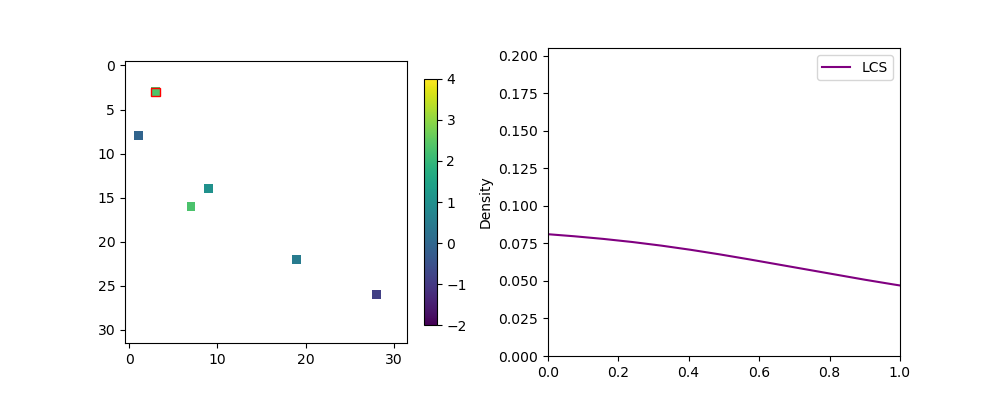
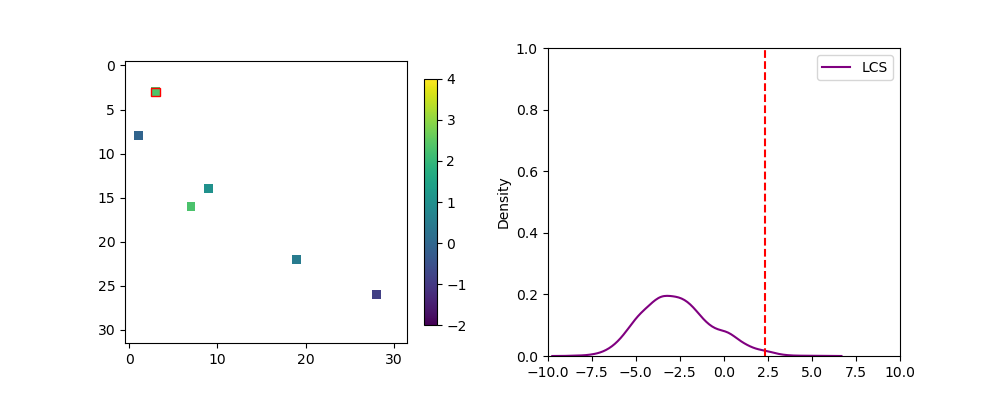
local conditional simulation marginals for model 2 br unparameterized

diff --git a/brown_resnick/sde_diffusion/masked/unparameterized_masked_score/evaluation/marginal_and_bivariate_densities/produce_conditional_mcmc_marginal_and_bivariate_densities.py b/brown_resnick/sde_diffusion/masked/unparameterized_masked_score/evaluation/marginal_and_bivariate_densities/produce_conditional_mcmc_marginal_and_bivariate_densities.py
@@ -16,28 +16,31 @@ def visualize_local_conditional_simulation_marginal_density(ref_image_name, mask
     mask = np.load(mask_name)
     missing_indices = np.squeeze(np.argwhere((1-mask).reshape((n**2,))))
     ref_image = np.load(ref_image_name)
-    mcmc_samples = np.load((mcmc_file_name + "_" + str(missing_index) + ".npy"))
+    mcmc_samples = np.load((mcmc_file_name + "_" + str(missing_index) + ".npy"), allow_pickle = True)
     missing_index = missing_index - 1
     matrix_missing_index = (int(missing_indices[missing_index] % n), int(missing_indices[missing_index] / n))
 
-    fig, ax = plt.subplots(nrows = 1, ncols = 2,figsize = (10,4))
+    if(mcmc_samples.size == 1):
+        pass
+    else:
+        fig, ax = plt.subplots(nrows = 1, ncols = 2,figsize = (10,4))
 
-    mask[matrix_missing_index[1],matrix_missing_index[0]] = 1
-    print(ref_image[matrix_missing_index[1],matrix_missing_index[0]])
-    im = ax[0].imshow(ref_image.reshape((n,n)), alpha = mask.reshape((n,n)).astype(float),
+        mask[matrix_missing_index[1],matrix_missing_index[0]] = 1
+        print(ref_image[matrix_missing_index[1],matrix_missing_index[0]])
+        im = ax[0].imshow(ref_image.reshape((n,n)), alpha = mask.reshape((n,n)).astype(float),
                  vmin = -2, vmax = 4)
-    plt.colorbar(im, shrink = .8)
-    rect = Rectangle(((matrix_missing_index[0]-.5), (matrix_missing_index[1]-.5)), width=1, height=1,
+        plt.colorbar(im, shrink = .8)
+        rect = Rectangle(((matrix_missing_index[0]-.5), (matrix_missing_index[1]-.5)), width=1, height=1,
                              facecolor='none', edgecolor='r')
-    ax[0].add_patch(rect)
-    pdd = pd.DataFrame(np.log(mcmc_samples), columns = None)
-    sns.kdeplot(data = pdd, palette=['purple'], ax = ax[1])
-    ax[1].set_xlim(-10,10)
-    ax[1].set_xlim(0,1)
-    ax[1].axvline(ref_image[matrix_missing_index[1],matrix_missing_index[0]], color='red', linestyle = 'dashed')
-    ax[1].legend(labels = ['LCS'])
-    plt.savefig(figname)
-    plt.clf()
+        ax[0].add_patch(rect)
+        pdd = pd.DataFrame(np.log(mcmc_samples), columns = None)
+        sns.kdeplot(data = pdd, palette=['purple'], ax = ax[1])
+        ax[1].set_xlim(-10,10)
+        ax[1].set_ylim(0,1)
+        ax[1].axvline(ref_image[matrix_missing_index[1],matrix_missing_index[0]], color='red', linestyle = 'dashed')
+        ax[1].legend(labels = ['LCS'])
+        plt.savefig(figname)
+        plt.clf()
 
 def visualize_multiple_local_conditional_simulation_marginal_density(ref_image_name, mask_name, mcmc_file_name,
                                                             indices, n, figname):
@@ -198,12 +201,12 @@ def produce_multiple_approximate_conditional_bivariate_density(folder_name, appr
 n = 32
 evaluation_folder = append_directory(2)
 data_generation_folder = (evaluation_folder + "/diffusion_generation")
-folder_name = (data_generation_folder + "/data/model2/ref_image4")
+folder_name = (data_generation_folder + "/data/model2/ref_image8")
 mask = np.load((folder_name + "/mask.npy"))
 missing_indices = np.squeeze(np.argwhere((1-mask).reshape((n**2,))))
-mcmc_file_name = (data_generation_folder + "/data/model2/ref_image4/local_conditional_simulation/univariate/local_conditional_simulation_neighbors_5_4000")
-ref_image_name = (data_generation_folder + "/data/model2/ref_image4/ref_image.npy")
-mask_name = (data_generation_folder + "/data/model2/ref_image4/mask.npy")
+mcmc_file_name = (data_generation_folder + "/data/model2/ref_image8/local_conditional_simulation/univariate/local_conditional_simulation_neighbors_5_4000")
+ref_image_name = (data_generation_folder + "/data/model2/ref_image8/ref_image.npy")
+mask_name = (data_generation_folder + "/data/model2/ref_image8/mask.npy")
 indices = [50, 100, 150, 200, 250, 300, 350, 400, 450, 500, 550, 600, 650, 700, 750, 800, 850, 900]
 figname = (folder_name + "/local_conditional_simulation/marginal_density/local_conditional_simulation_marginal_density_missing_index_")
 visualize_multiple_local_conditional_simulation_marginal_density(ref_image_name, mask_name, mcmc_file_name,
